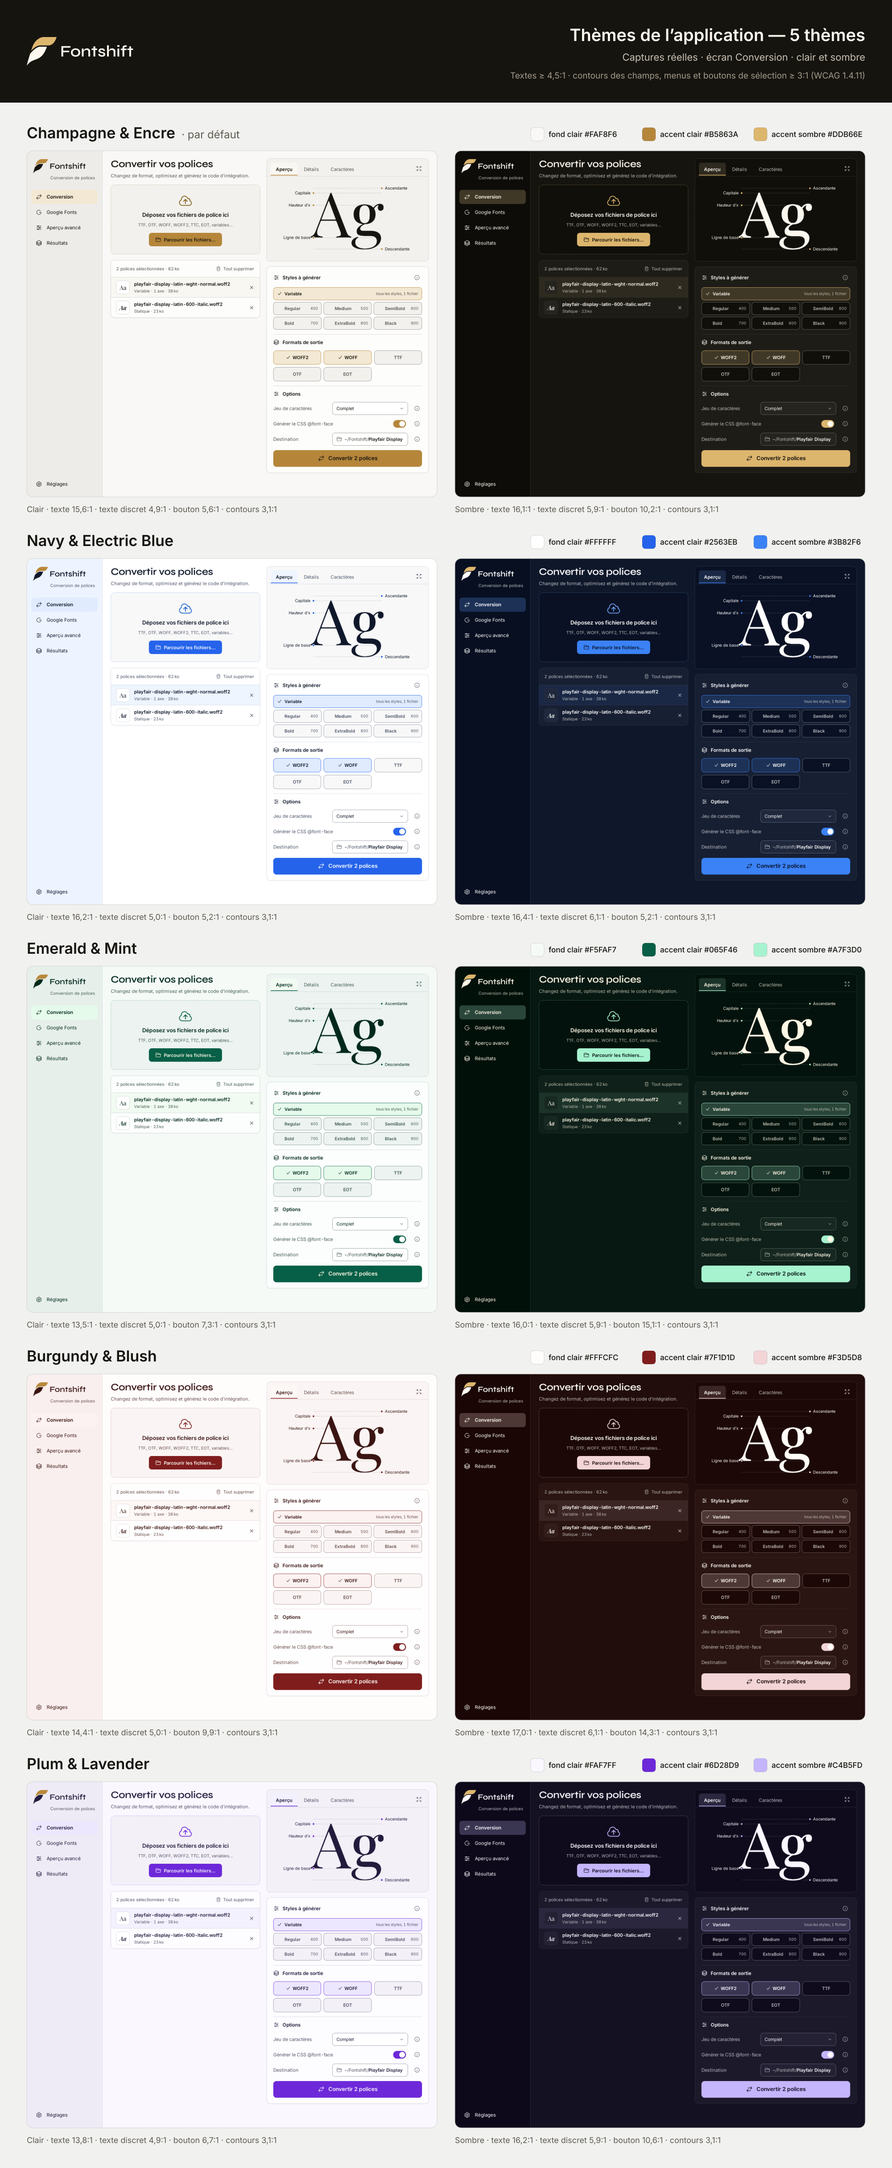
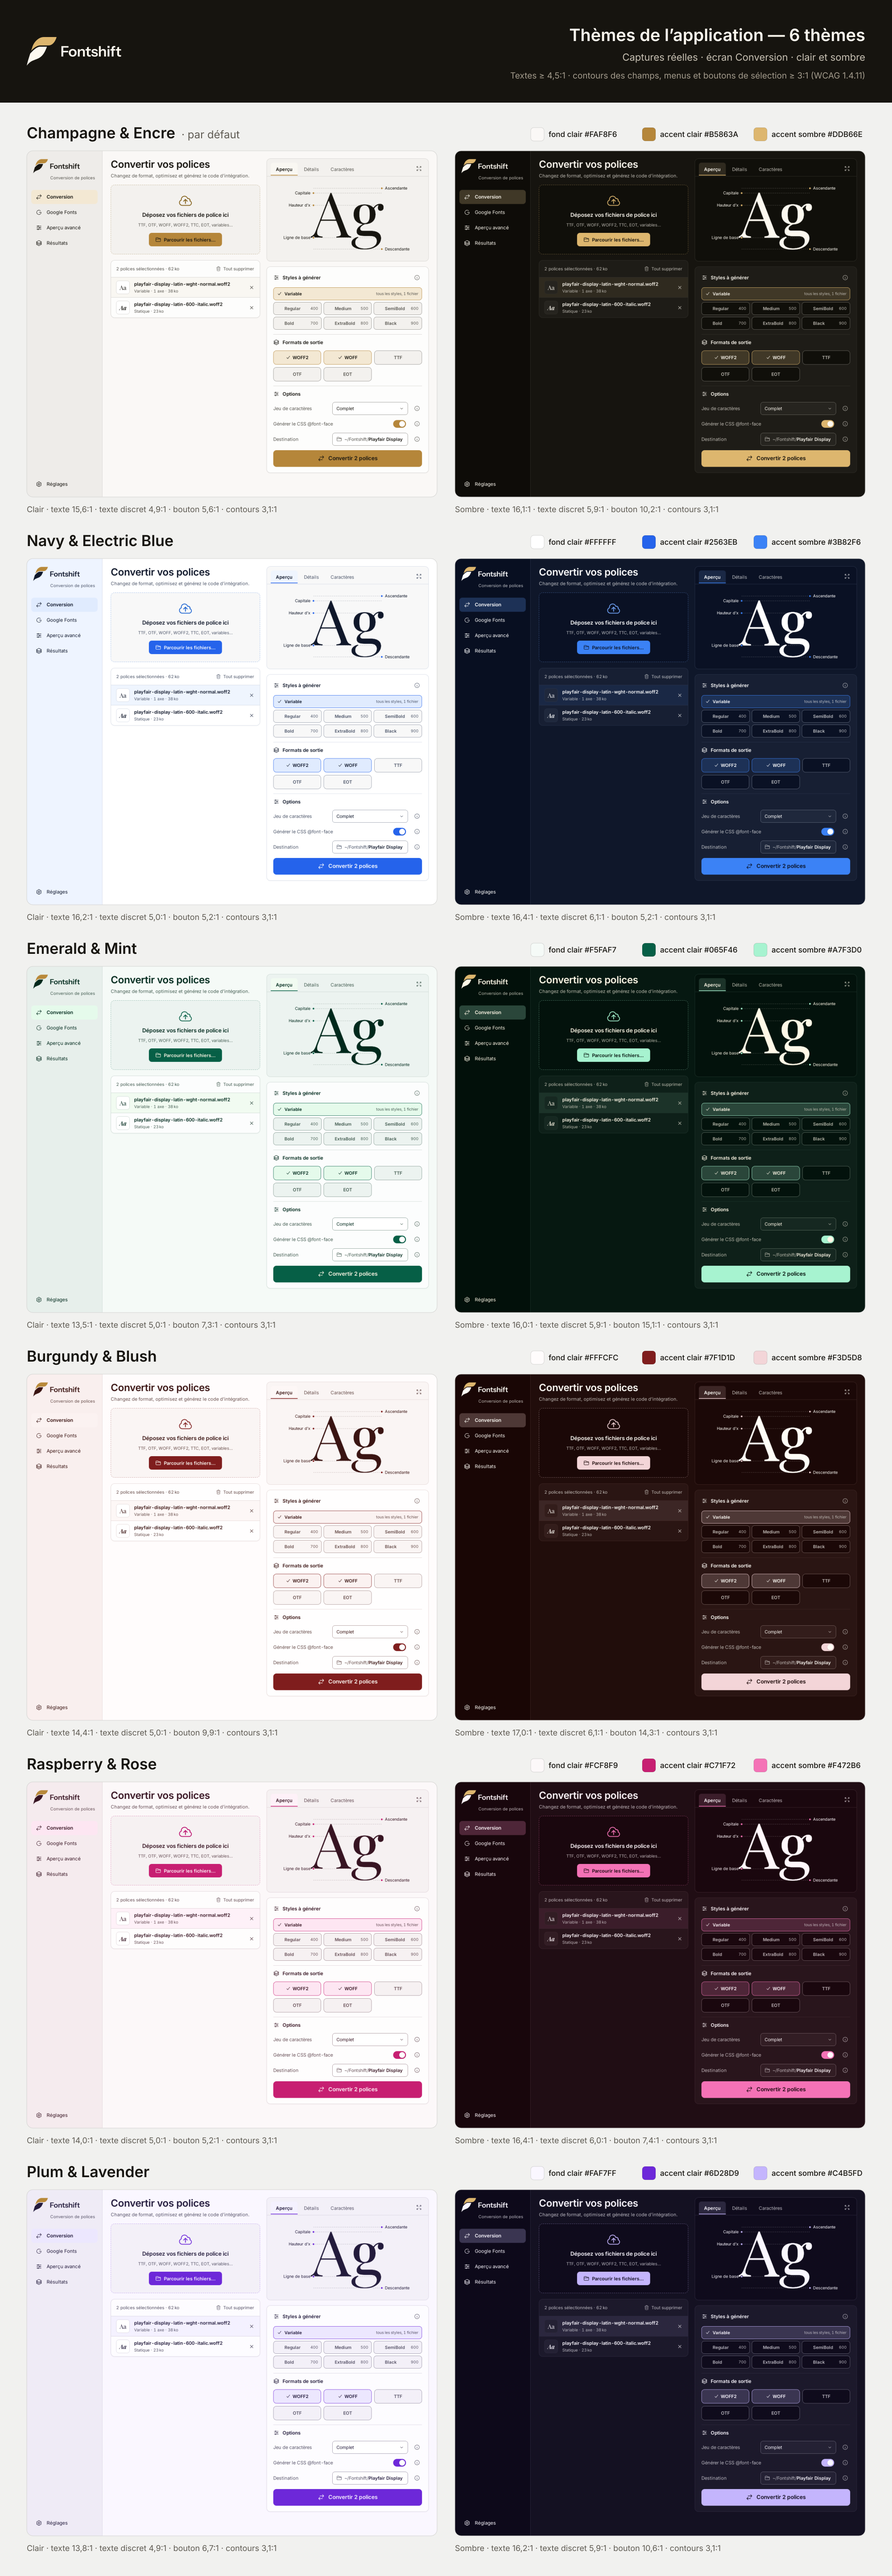
6e thème : Raspberry & Rose (rose vif)
- Trio : framboise #C71F72, rose #F472B6, blanc rosé #FFF7FB ; mêmes règles que les 5 autres
  (fond clair à peine teinté, contours à 3:1) ; tous les contrastes WCAG passent.
- Placé entre Burgundy et Plum ; planche des thèmes régénérée (captures réelles).

Claude-Session: https://claude.ai/code/session_01YUWehFn8GVS1RsmWntzcKC

diff --git a/src/styles/tokens.css b/src/styles/tokens.css
@@ -440,6 +440,116 @@
   --ftn-overlay: rgba(58, 20, 18, 0.25);
 }
 
+:root[data-theme="rose"][data-mode="dark"] {
+  color-scheme: dark;
+  --ftn-background: #200D14;
+  --ftn-background-fill: #200D14;
+  --ftn-sidebar: #18060C;
+  --ftn-surface: #29151C;
+  --ftn-surface-fill: #29151C;
+  --ftn-surface-sunken: #1A070E;
+  --ftn-surface-elevated: #321D24;
+  --ftn-border: #3E262E;
+  --ftn-border-strong: #786269;
+  --ftn-text-primary: #FFF7FB;
+  --ftn-text-secondary: #C1B5BA;
+  --ftn-text-tertiary: #A1959A;
+  --ftn-accent: #F472B6;
+  --ftn-accent-fill: #F472B6;
+  --ftn-accent-top: #F472B6;
+  --ftn-accent-low: #FF88C4;
+  --ftn-accent-hover: #FF88C4;
+  --ftn-accent-edge: transparent;
+  --ftn-accent-foreground: #18060C;
+  --ftn-accent-text: #F875B9;
+  --ftn-accent-line: rgba(248, 117, 185, 0.6);
+  --ftn-accent-dash: rgba(248, 117, 185, 0.6);
+  --ftn-hover: rgba(255, 247, 251, 0.05);
+  --ftn-selected: #4E2638;
+  --ftn-selected-soft: #3B1D2A;
+  --ftn-selected-strong: #6A334D;
+  --ftn-focus: #F875B9;
+  --ftn-disabled: #75666C;
+  --ftn-success: #6FE3B5;
+  --ftn-success-soft: rgba(111, 227, 181, 0.14);
+  --ftn-warning: #F7C27A;
+  --ftn-warning-soft: rgba(247, 194, 122, 0.14);
+  --ftn-error: #FFA897;
+  --ftn-error-soft: rgba(255, 168, 151, 0.14);
+  --ftn-error-line: rgba(255, 168, 151, 0.45);
+  --ftn-specimen: #FFF7FB;
+  --ftn-leader: rgba(193, 181, 186, 0.6);
+  --ftn-badge: #4E2638;
+  --ftn-tabbar: #18060C;
+  --ftn-tab-active: #321D24;
+  --ftn-brand-gold: #DDB66E;
+  --ftn-shadow: 0 18px 40px rgba(0, 0, 0, 0.35);
+  --ftn-shadow-soft: none;
+  --ftn-button-shadow: none;
+  --ftn-code-keyword: #F875B9;
+  --ftn-code-property: #FFF7FB;
+  --ftn-code-string: #F472B6;
+  --ftn-code-text: #C1B5BA;
+  --ftn-code-comment: #A1959A;
+  --ftn-knob: #FFF7FB;
+  --ftn-overlay: rgba(0, 0, 0, 0.5);
+}
+
+:root[data-theme="rose"][data-mode="light"] {
+  color-scheme: light;
+  --ftn-background: #FCF8F9;
+  --ftn-background-fill: #FCF8F9;
+  --ftn-sidebar: #F5EBEE;
+  --ftn-surface: #FEFDFD;
+  --ftn-surface-fill: #FEFDFD;
+  --ftn-surface-sunken: #F6F1F2;
+  --ftn-surface-elevated: #FFFFFF;
+  --ftn-border: #DED1D6;
+  --ftn-border-strong: #9E8890;
+  --ftn-text-primary: #371422;
+  --ftn-text-secondary: #664D55;
+  --ftn-text-tertiary: #786269;
+  --ftn-accent: #C71F72;
+  --ftn-accent-fill: #C71F72;
+  --ftn-accent-top: #C71F72;
+  --ftn-accent-low: #B20F64;
+  --ftn-accent-hover: #B20F64;
+  --ftn-accent-edge: transparent;
+  --ftn-accent-foreground: #FFF7FB;
+  --ftn-accent-text: #B70266;
+  --ftn-accent-line: rgba(183, 2, 102, 0.5);
+  --ftn-accent-dash: rgba(183, 2, 102, 0.5);
+  --ftn-hover: rgba(55, 20, 34, 0.04);
+  --ftn-selected: #FDE6F2;
+  --ftn-selected-soft: #FEF1F8;
+  --ftn-selected-strong: #FCD5EA;
+  --ftn-focus: #B70266;
+  --ftn-disabled: #B0A0A5;
+  --ftn-success: #05704E;
+  --ftn-success-soft: rgba(5, 112, 78, 0.1);
+  --ftn-warning: #965200;
+  --ftn-warning-soft: rgba(150, 82, 0, 0.09);
+  --ftn-error: #B42318;
+  --ftn-error-soft: rgba(180, 35, 24, 0.08);
+  --ftn-error-line: rgba(180, 35, 24, 0.45);
+  --ftn-specimen: #371422;
+  --ftn-leader: rgba(102, 77, 85, 0.6);
+  --ftn-badge: #FDE6F2;
+  --ftn-tabbar: #F5EBEE;
+  --ftn-tab-active: #FEFDFD;
+  --ftn-brand-gold: #B8893A;
+  --ftn-shadow: 0 16px 36px rgba(55, 20, 34, 0.1);
+  --ftn-shadow-soft: 0 1px 2px rgba(55, 20, 34, 0.05);
+  --ftn-button-shadow: none;
+  --ftn-code-keyword: #B70266;
+  --ftn-code-property: #371422;
+  --ftn-code-string: #B70266;
+  --ftn-code-text: #664D55;
+  --ftn-code-comment: #786269;
+  --ftn-knob: #FFFFFF;
+  --ftn-overlay: rgba(55, 20, 34, 0.25);
+}
+
 :root[data-theme="plum"][data-mode="dark"] {
   color-scheme: dark;
   --ftn-background: #141122;

diff --git a/src/lib/theme/palette.js b/src/lib/theme/palette.js
@@ -1,6 +1,6 @@
 /*
  * Fontshift — palettes et tokens sémantiques.
- * Source unique des couleurs : 5 thèmes × 2 apparences (un par famille : or, bleu, vert, rouge, violet),
+ * Source unique des couleurs : 6 thèmes × 2 apparences (un par famille : or, bleu, vert, rouge, rose, violet),
  * mêmes clés, couleurs en aplat (sans dégradé).
  * Chaque thème part d'un trio (couleur profonde, accent, neutre clair) :
  *   clair  : fond = blanc cassé teinté par le thème (sans dominante jaune), boutons = couleur profonde
@@ -83,6 +83,24 @@ var BASE = {
       tintSoft: '#3C2625', focus: '#F3D5D8'
     }
   },
+  rose: {
+    name: 'Raspberry & Rose',
+    trio: { deep: '#C71F72', accent: '#F472B6', neutral: '#FFF7FB' },
+    light: {
+      sidebar: '#F5EBEE', background: '#FCF8F9', surface: '#FEFDFD', surfaceSunken: '#F6F1F2', surfaceElevated: '#FFFFFF',
+      border: '#DED1D6', borderStrong: '#9E8890', textPrimary: '#371422', textSecondary: '#664D55', textTertiary: '#786269',
+      ornament: '#B70266', specimen: '#371422', badge: '#FDE6F2', disabled: '#B0A0A5', success: '#05704E', warning: '#965200',
+      error: '#B42318', tabbar: '#F5EBEE', tabActive: '#FEFDFD', accent: '#C71F72', accentHover: '#B20F64', accentOn: '#FFF7FB',
+      tint: '#FDE6F2', tintStrong: '#FCD5EA', tintSoft: '#FEF1F8', focus: '#B70266'
+    },
+    dark: {
+      sidebar: '#18060C', background: '#200D14', surface: '#29151C', surfaceSunken: '#1A070E', surfaceElevated: '#321D24',
+      border: '#3E262E', borderStrong: '#786269', textPrimary: '#FFF7FB', textSecondary: '#C1B5BA', textTertiary: '#A1959A',
+      ornament: '#F875B9', specimen: '#FFF7FB', badge: '#4E2638', disabled: '#75666C', success: '#6FE3B5', warning: '#F7C27A',
+      error: '#FFA897', tabbar: '#18060C', tabActive: '#321D24', accent: '#F472B6', accentHover: '#FF88C4', accentOn: '#18060C',
+      tint: '#4E2638', tintStrong: '#6A334D', tintSoft: '#3B1D2A', focus: '#F875B9'
+    }
+  },
   plum: {
     name: 'Plum & Lavender',
     trio: { deep: '#6D28D9', accent: '#C4B5FD', neutral: '#FAF7FF' },
@@ -102,7 +120,7 @@ var BASE = {
     }
   }
 };
-var ORDER = ['champagne', 'navy', 'emerald', 'burgundy', 'plum'];
+var ORDER = ['champagne', 'navy', 'emerald', 'burgundy', 'rose', 'plum'];
 
 function hx(h) { return [parseInt(h.slice(1, 3), 16), parseInt(h.slice(3, 5), 16), parseInt(h.slice(5, 7), 16)]; }
 function rgba(h, a) { var v = hx(h); return 'rgba(' + v[0] + ', ' + v[1] + ', ' + v[2] + ', ' + a + ')'; }

diff --git a/src/lib/prefs.svelte.ts b/src/lib/prefs.svelte.ts
@@ -3,7 +3,7 @@
 import { ORDER, DEFAULT_THEME } from './theme/palette.js';
 import { broadcast, listenAll, systemLocales } from './platform';
 
-export type ThemeKey = 'champagne' | 'navy' | 'emerald' | 'burgundy' | 'plum';
+export type ThemeKey = 'champagne' | 'navy' | 'emerald' | 'burgundy' | 'rose' | 'plum';
 export type Appearance = 'light' | 'dark' | 'system';
 export type Lang = 'fr' | 'en' | 'es';
 export type LangPref = Lang | 'system';

diff --git a/design/brand/source/themes_build.py b/design/brand/source/themes_build.py
@@ -74,6 +74,7 @@ TRIOS = [
     ('navy', 'Navy & Electric Blue', '#0F172A', '#3B82F6', '#FFFFFF'),
     ('emerald', 'Emerald & Mint', '#065F46', '#A7F3D0', '#FFF8E7'),
     ('burgundy', 'Burgundy & Blush', '#7F1D1D', '#F3D5D8', '#FFFDF7'),
+    ('rose', 'Raspberry & Rose', '#C71F72', '#F472B6', '#FFF7FB'),
     ('plum', 'Plum & Lavender', '#6D28D9', '#C4B5FD', '#FAF7FF'),
 ]
 DEFAULT = 'champagne'
@@ -82,12 +83,16 @@ SEM = {'light': {'success': '#05704E', 'warning': '#965200', 'error': '#B42318'}
 
 
 # Ajustements validés (version 3 des thèmes, novembre 2026), appliqués après la dérivation automatique :
-# - 8 thèmes ramenés à 5 (Charcoal, Teal et Terracotta retirés : quasi-doublons) ;
+# - 8 thèmes ramenés à 5 (Charcoal, Teal et Terracotta retirés : quasi-doublons), puis Raspberry & Rose ajouté (rose vif) ;
 # - modes clairs sans dominante jaune : fonds blancs cassés teintés par la couleur du thème (même luminosité,
 #   saturation divisée par 3 à 4) ;
 # - Champagne : accent or en clair (boutons #B5863A, texte des boutons en encre) ; Navy : bleu électrique #2563EB ;
 # - borderStrong (contours des champs, menus et boutons de sélection) porté à 3:1 contre fond et carte.
 AJUSTEMENTS = {
+    'rose': {
+        'light': {'background': '#FCF8F9', 'sidebar': '#F5EBEE', 'tabbar': '#F5EBEE', 'surfaceSunken': '#F6F1F2', 'surface': '#FEFDFD', 'tabActive': '#FEFDFD', 'border': '#DED1D6', 'borderStrong': '#9E8890'},
+        'dark': {'borderStrong': '#786269'},
+    },
     'champagne': {
         'light': {'sidebar': '#EEECE9', 'background': '#FAF8F6', 'surface': '#FDFDFC', 'surfaceSunken': '#F3F1EE', 'border': '#D4D2CF', 'borderStrong': '#8F8D89', 'badge': '#F3E8D3', 'tabbar': '#EEECE9', 'tabActive': '#FDFDFC', 'accent': '#B5863A', 'accentHover': '#C99A45', 'accentOn': '#16140F', 'tint': '#F3E8D3', 'tintStrong': '#F1E9DA', 'tintSoft': '#F9F7F2'},
         'dark': {'borderStrong': '#6B6962'},

diff --git a/README.md b/README.md
@@ -3,7 +3,7 @@
 Application de bureau légère (macOS, Windows, Linux) pour convertir des polices :
 TTF, OTF, WOFF, WOFF2 et EOT, polices variables comprises, avec import depuis Google Fonts
 et génération du CSS `@font-face`. Identité visuelle : logo n° 05 « Futuriste & Fluide » (monogramme F
-or et encre, logotype Instrument Sans, interface et titres en Inter). Anciennement « Fontaine » (renommée en 1.5.0). 5 thèmes en aplats (Champagne & Encre par défaut, puis Navy, Emerald, Burgundy et Plum) en clair et en sombre,
+or et encre, logotype Instrument Sans, interface et titres en Inter). Anciennement « Fontaine » (renommée en 1.5.0). 6 thèmes en aplats (Champagne & Encre par défaut, puis Navy, Emerald, Burgundy, Raspberry & Rose et Plum) en clair et en sombre,
 en français, anglais et espagnol.
 
 ## Ce que fait l'application
@@ -43,7 +43,7 @@ la vérification des mises à jour utilisent le réseau.
 
 ```
 src/                     Interface Svelte 5 + Tailwind CSS 4
-  lib/theme/palette.js   Source unique des couleurs (5 thèmes × 2 apparences, aplats, tokens sémantiques)
+  lib/theme/palette.js   Source unique des couleurs (6 thèmes × 2 apparences, aplats, tokens sémantiques)
   lib/brand/             Logo et icône dans l'interface, lus depuis design/brand (aucune copie des tracés)
   styles/tokens.css      Généré : propriétés --ftn-* sur :root[data-theme][data-mode]
   app.css                @theme inline : les classes Tailwind lisent les tokens (bg-surface, text-fg-muted…)

diff --git a/design/brand/README.md b/design/brand/README.md
@@ -22,7 +22,7 @@ Changements de la version 2 par rapport à la version 1 :
 | `png/` | Logos 2400 px et monogrammes 1024 px, fond transparent |
 | `macos/` | Icône 1024 px (SVG + PNG), `Fontshift.iconset` (16 à 1024 px), `Fontshift.icns` |
 | `web/` | `favicon.svg`, `favicon.ico` (16/32/48), PNG 16/32/48, `apple-touch-icon.png`, `icon-192/512.png`, `site.webmanifest`, balises `head.html` |
-| `preview/` | Planche d'identité, variantes de couleur du monogramme, planche des 5 thèmes (captures réelles, `e2e/themes_board.py`) et fichier JSON des thèmes |
+| `preview/` | Planche d'identité, variantes de couleur du monogramme, planche des 6 thèmes (captures réelles, `e2e/themes_board.py`) et fichier JSON des thèmes |
 
 Logos SVG : `fontshift-logo-{dark,light,black,white}.svg` (horizontal) et
 `fontshift-monogram-{dark,light,black,white}.svg`. `fontshift-wordmark.svg` est le logotype seul
